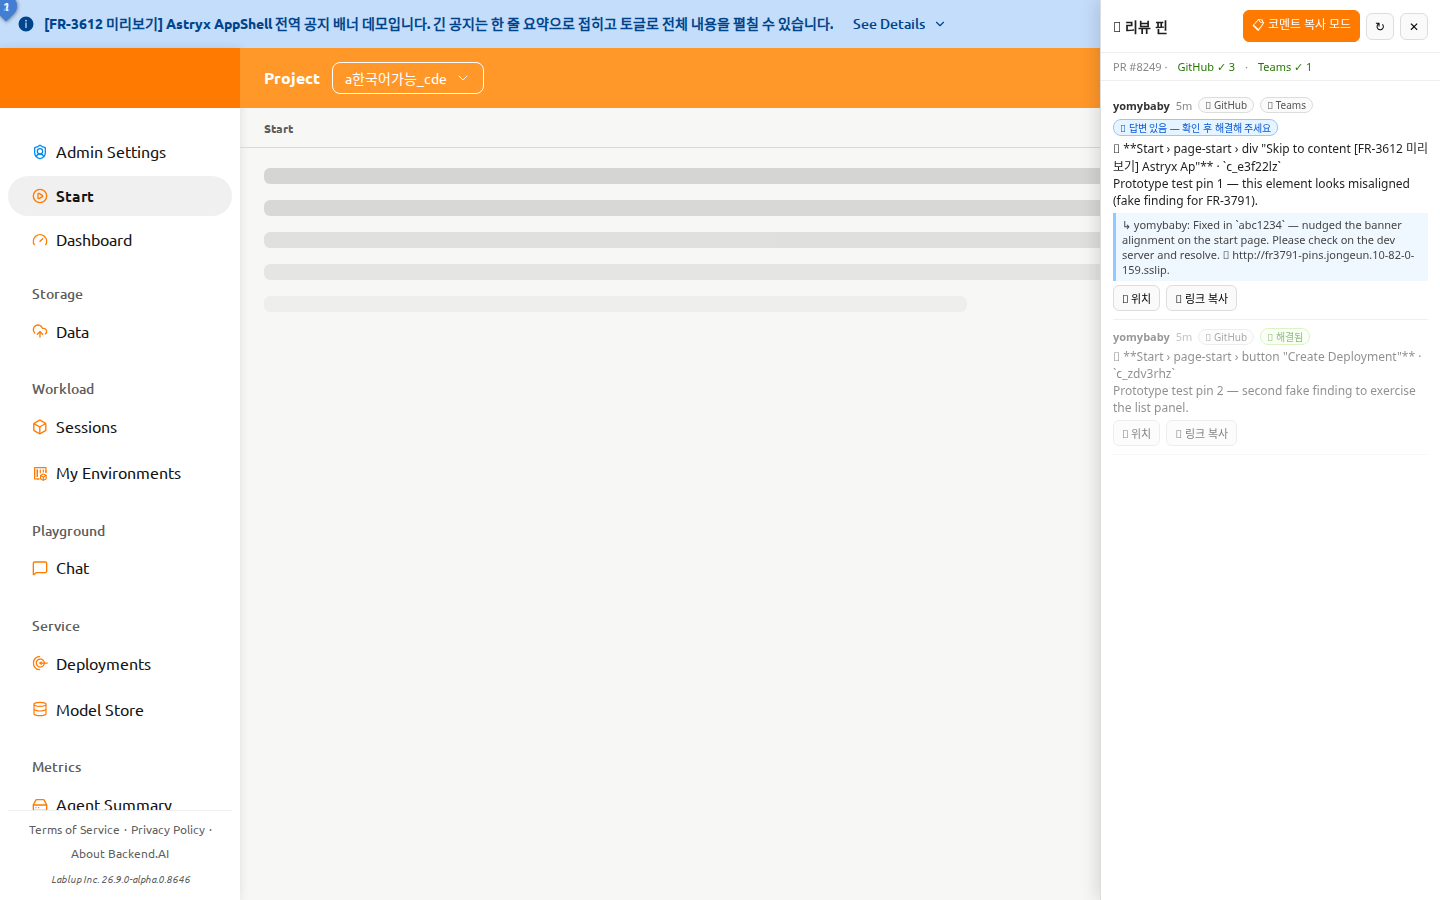
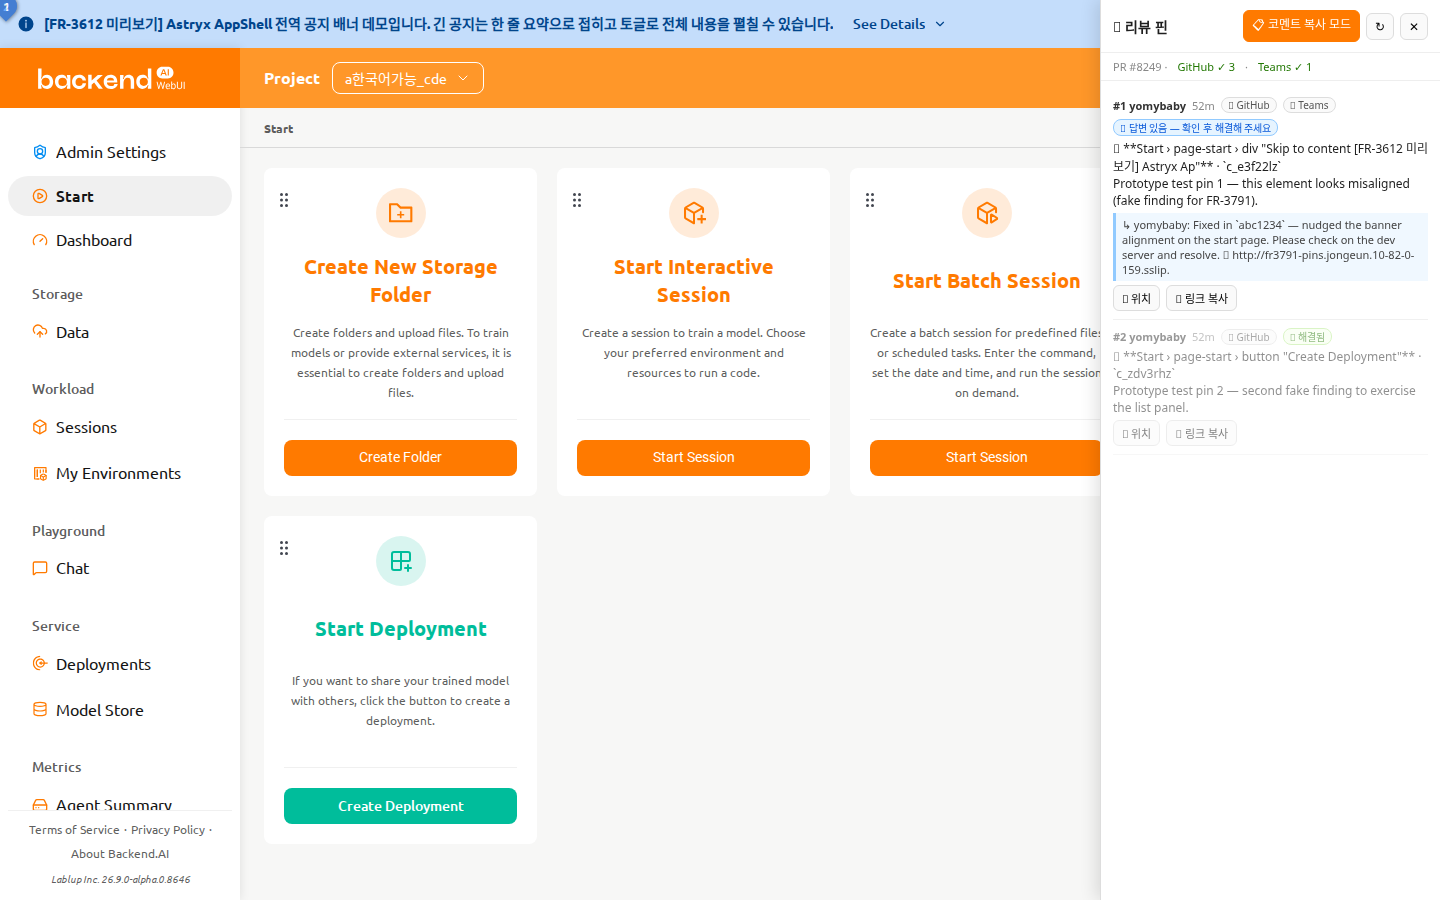
prototype(FR-3791): stable pin ordering — fixed numbers, no section jumps
Driver reaction: pin list order visibly shifted moments after opening the
panel. Cause: (1) items were classified into the orphan section before the
SPA rendered their anchor targets, then jumped back on the 800ms reposition
re-render; (2) pin numbers were re-counted per render pass in Map order
while the panel sorted by createdAt.

Fix: assign each pin a fixed number by createdAt rank once per payload;
render the panel as one flat list in number order; orphan/other-page become
in-place badges instead of sections, so late anchor location updates a
badge without reordering.

Claude-Session: https://claude.ai/code/session_01SBkEj3rDffVHm1gVd1Avyw

diff --git a/react/vite-plugins/reviewOverlayClient.js b/react/vite-plugins/reviewOverlayClient.js
@@ -518,7 +518,6 @@
 
   function renderPins(pins) {
     const seen = new Set();
-    let num = 0;
     for (const d of pins) {
       const st = pinState.get(d.id) || {};
       st.data = d;
@@ -541,6 +540,18 @@
         pinState.delete(id);
       }
     }
+    // Stable numbering: createdAt rank, assigned per payload — never
+    // re-counted per render pass, so page pins, panel order, and numbers
+    // stay in sync and don't shift when an anchor is located late.
+    [...pinState.values()]
+      .sort((a, b) =>
+        String(a.data.createdAt || '9999').localeCompare(
+          String(b.data.createdAt || '9999'),
+        ),
+      )
+      .forEach((st, i) => {
+        st.num = i + 1;
+      });
     refreshPinLayer();
     renderPanel();
     const onPage = [...pinState.values()].filter(
@@ -552,7 +563,6 @@
   }
 
   function refreshPinLayer() {
-    let num = 0;
     for (const st of pinState.values()) {
       const show = onCurrentPage(st.anchor) && typeof st.anchor.s === 'string';
       if (!show) {
@@ -562,7 +572,6 @@
         }
         continue;
       }
-      num++;
       if (!st.pinEl) {
         st.pinEl = el('div', 'pin');
         st.pinEl.appendChild(el('span'));
@@ -571,7 +580,7 @@
         st.pinEl.addEventListener('click', () => revealItem(id));
         pinLayer.appendChild(st.pinEl);
       }
-      st.pinEl.querySelector('span').textContent = String(num);
+      st.pinEl.querySelector('span').textContent = String(st.num || '·');
       st.pinEl.className = `pin ${pinClass(st.data)}`;
       positionPin(st);
       if (st.data.id === highlightId) st.pinEl.classList.add('pulse');
@@ -610,8 +619,18 @@
     item.dataset.pinId = d.id;
     const meta = el('div', 'meta');
     const author = el('span', 'author');
-    author.textContent = d.author || '(unknown)';
+    author.textContent = `#${st.num || '·'} ${d.author || '(unknown)'}`;
     meta.append(author, el('span', '', age(d.createdAt)));
+    if (!onCurrentPage(st.anchor)) {
+      meta.appendChild(el('span', 'badge outdated', '다른 페이지'));
+    } else if (
+      st.anchor &&
+      typeof st.anchor.s === 'string' &&
+      !st.located &&
+      !d.resolved
+    ) {
+      meta.appendChild(el('span', 'badge hint', '⚠ 위치 못 찾음'));
+    }
     if (d.github && d.github.url) {
       const a = el('a', 'badge src', '🐙 GitHub');
       a.href = d.github.url;
@@ -662,8 +681,8 @@
 
   function renderPanel() {
     itemsBox.textContent = '';
-    const states = [...pinState.values()].sort((a, b) =>
-      String(a.data.createdAt || '').localeCompare(String(b.data.createdAt || '')),
+    const states = [...pinState.values()].sort(
+      (a, b) => (a.num || 1e9) - (b.num || 1e9),
     );
     if (!states.length) {
       itemsBox.appendChild(
@@ -671,26 +690,10 @@
       );
       return;
     }
-    const here = [];
-    const orphans = [];
-    const elsewhere = [];
-    for (const st of states) {
-      if (!onCurrentPage(st.anchor)) elsewhere.push(st);
-      else if (typeof st.anchor.s === 'string' && !st.located && !st.data.resolved)
-        orphans.push(st);
-      else here.push(st);
-    }
-    for (const st of here) itemsBox.appendChild(buildItem(st));
-    if (orphans.length) {
-      itemsBox.appendChild(
-        el('div', 'section', '⚠ 위치를 찾지 못한 코멘트 — UI가 바뀌었을 수 있어요'),
-      );
-      for (const st of orphans) itemsBox.appendChild(buildItem(st));
-    }
-    if (elsewhere.length) {
-      itemsBox.appendChild(el('div', 'section other', '다른 페이지의 핀'));
-      for (const st of elsewhere) itemsBox.appendChild(buildItem(st));
-    }
+    // One flat list in fixed number order — items never move between
+    // sections; a late anchor location updates the ⚠ badge in place
+    // instead of reordering the list.
+    for (const st of states) itemsBox.appendChild(buildItem(st));
   }
 
   function revealItem(id) {
